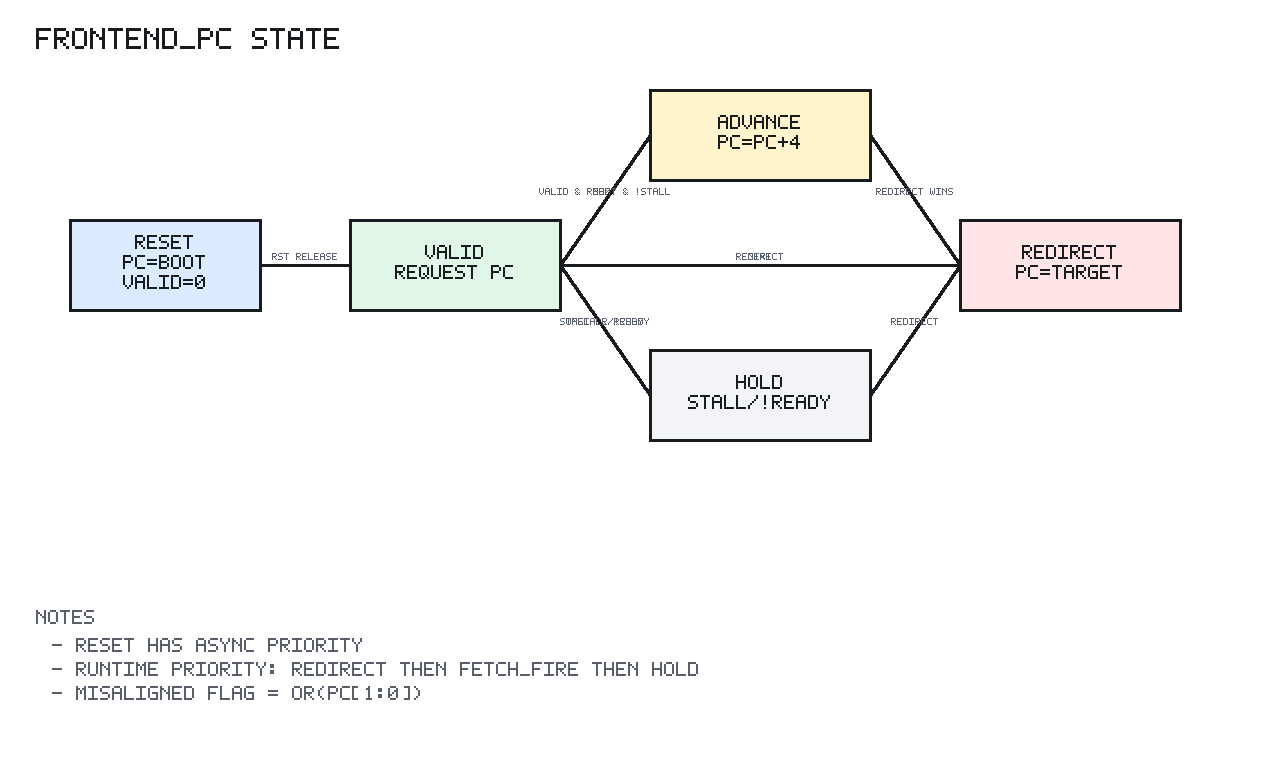
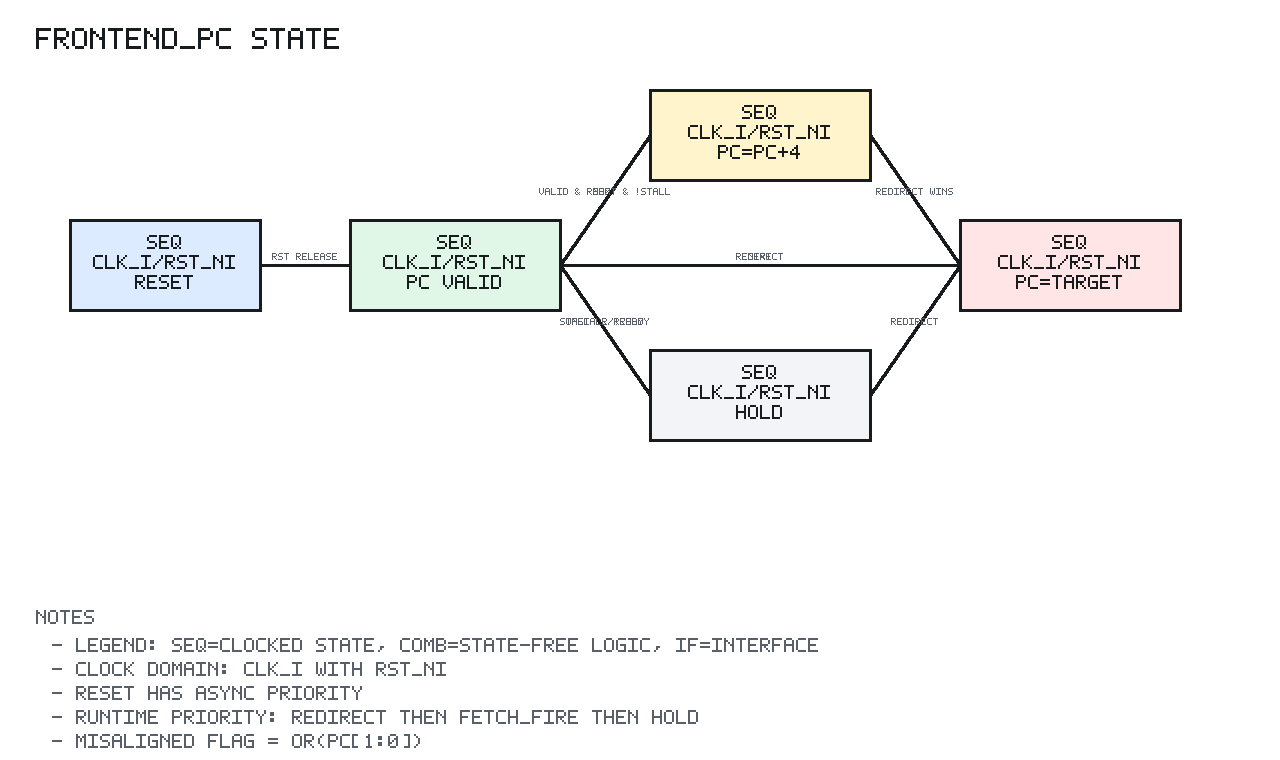
Clarify diagram timing domains

diff --git a/docs/tools/render_state_pngs.py b/docs/tools/render_state_pngs.py
@@ -641,13 +641,13 @@ def main() -> None:
             "frontend/docs/images/frontend_fetch_state.png",
             "FRONTEND_FETCH FSM",
             [
-                Node("reset", 70, 220, 190, 90, ("RESET", "IDLE"), BLUE),
-                Node("idle", 340, 220, 210, 90, ("IDLE", "NO OUTSTAND"), GREEN),
-                Node("local", 610, 70, 230, 90, ("LOCAL FAULT", "MISALIGNED"), PINK),
-                Node("wait", 610, 220, 230, 90, ("WAIT_RSP", "PC_Q VALID"), YELLOW),
-                Node("kill", 610, 380, 230, 90, ("KILL", "DROP RSP"), PINK),
-                Node("deliver", 950, 150, 220, 90, ("DELIVER", "INSTR VALID"), GREEN),
-                Node("drop", 950, 340, 220, 90, ("DROP", "RSP READY"), GRAY),
+                Node("reset", 70, 220, 190, 90, ("SEQ", "CLK_I/RST_NI", "RESET IDLE"), BLUE),
+                Node("idle", 340, 220, 210, 90, ("SEQ", "CLK_I/RST_NI", "IDLE"), GREEN),
+                Node("local", 610, 70, 230, 90, ("COMB", "LOCAL FAULT", "MISALIGNED"), PINK),
+                Node("wait", 610, 220, 230, 90, ("SEQ", "CLK_I/RST_NI", "WAIT_RSP"), YELLOW),
+                Node("kill", 610, 380, 230, 90, ("SEQ", "CLK_I/RST_NI", "KILL"), PINK),
+                Node("deliver", 950, 150, 220, 90, ("COMB", "DELIVER", "INSTR VALID"), GREEN),
+                Node("drop", 950, 340, 220, 90, ("COMB", "DROP", "RSP READY"), GRAY),
             ],
             [
                 Edge("reset", "idle", "RST RELEASE"),
@@ -660,17 +660,17 @@ def main() -> None:
                 Edge("kill", "drop", "RSP_VALID"),
                 Edge("drop", "idle", "CONSUMED"),
             ],
-            ["ONE OUTSTANDING REQUEST", "FLUSH SUPPRESSES NEW REQUESTS AND KILLS OUTSTANDING RESPONSE", "MISALIGNED PC DOES NOT ISSUE MEMORY REQUEST"],
+            ["LEGEND: SEQ=CLOCKED STATE, COMB=STATE-FREE LOGIC, IF=INTERFACE", "CLOCK DOMAIN: CLK_I WITH RST_NI", "ONE OUTSTANDING REQUEST", "FLUSH KILLS OUTSTANDING RESPONSE", "MISALIGNED PC DOES NOT ISSUE MEMORY REQUEST"],
         ),
         (
             "frontend/docs/images/frontend_pc_state.png",
             "FRONTEND_PC STATE",
             [
-                Node("reset", 70, 220, 190, 90, ("RESET", "PC=BOOT", "VALID=0"), BLUE),
-                Node("valid", 350, 220, 210, 90, ("VALID", "REQUEST PC"), GREEN),
-                Node("advance", 650, 90, 220, 90, ("ADVANCE", "PC=PC+4"), YELLOW),
-                Node("hold", 650, 350, 220, 90, ("HOLD", "STALL/!READY"), GRAY),
-                Node("redir", 960, 220, 220, 90, ("REDIRECT", "PC=TARGET"), PINK),
+                Node("reset", 70, 220, 190, 90, ("SEQ", "CLK_I/RST_NI", "RESET"), BLUE),
+                Node("valid", 350, 220, 210, 90, ("SEQ", "CLK_I/RST_NI", "PC VALID"), GREEN),
+                Node("advance", 650, 90, 220, 90, ("SEQ", "CLK_I/RST_NI", "PC=PC+4"), YELLOW),
+                Node("hold", 650, 350, 220, 90, ("SEQ", "CLK_I/RST_NI", "HOLD"), GRAY),
+                Node("redir", 960, 220, 220, 90, ("SEQ", "CLK_I/RST_NI", "PC=TARGET"), PINK),
             ],
             [
                 Edge("reset", "valid", "RST RELEASE"),
@@ -683,18 +683,18 @@ def main() -> None:
                 Edge("advance", "redir", "REDIRECT WINS"),
                 Edge("redir", "valid", "NEXT"),
             ],
-            ["RESET HAS ASYNC PRIORITY", "RUNTIME PRIORITY: REDIRECT THEN FETCH_FIRE THEN HOLD", "MISALIGNED FLAG = OR(PC[1:0])"],
+            ["LEGEND: SEQ=CLOCKED STATE, COMB=STATE-FREE LOGIC, IF=INTERFACE", "CLOCK DOMAIN: CLK_I WITH RST_NI", "RESET HAS ASYNC PRIORITY", "RUNTIME PRIORITY: REDIRECT THEN FETCH_FIRE THEN HOLD", "MISALIGNED FLAG = OR(PC[1:0])"],
         ),
         (
             "core/docs/images/core_state.png",
             "CORE TOP WRAPPER",
             [
-                Node("port", 50, 210, 190, 90, ("PUBLIC", "CORE PORTS"), BLUE),
-                Node("core", 340, 170, 260, 170, ("CORE", "NO LOCAL FSM", "PASS THROUGH"), GREEN),
-                Node("dp", 720, 150, 280, 210, ("CORE_INT_DATAPATH", "PIPE CSR LSU", "TRAP HAZARD"), YELLOW),
-                Node("obs", 1060, 80, 180, 90, ("OBSERVE", "COMMIT/TRAP"), GRAY),
-                Node("mem", 1060, 250, 180, 90, ("IF/DMEM", "REQ/RSP"), GRAY),
-                Node("irq", 1060, 420, 180, 90, ("IRQ", "TIMER/EXT"), PINK),
+                Node("port", 50, 210, 190, 90, ("IF", "CORE PORTS"), BLUE),
+                Node("core", 340, 170, 260, 170, ("COMB", "CORE WRAP", "PASS THROUGH"), GREEN),
+                Node("dp", 720, 150, 280, 210, ("SEQ+COMB", "CLK_I/RST_NI", "CORE_INT_DATAPATH"), YELLOW),
+                Node("obs", 1060, 80, 180, 90, ("IF", "COMMIT/TRAP"), GRAY),
+                Node("mem", 1060, 250, 180, 90, ("IF", "IF/DMEM", "REQ/RSP"), GRAY),
+                Node("irq", 1060, 420, 180, 90, ("IF", "IRQ", "TIMER/EXT"), PINK),
             ],
             [
                 Edge("port", "core", "CLK RST BOOT"),
@@ -703,18 +703,18 @@ def main() -> None:
                 Edge("dp", "mem", "IF DMEM"),
                 Edge("irq", "dp", "PENDING"),
             ],
-            ["CORE OWNS NO SEQUENTIAL STATE", "DATAPATH STATE DIAGRAM DEFINES PIPELINE/TRAP BEHAVIOR"],
+            ["LEGEND: SEQ=CLOCKED STATE, COMB=STATE-FREE LOGIC, IF=INTERFACE", "CORE WRAPPER OWNS NO SEQUENTIAL STATE", "DATAPATH SEQ DOMAIN: CLK_I WITH RST_NI"],
         ),
         (
             "core/docs/images/core_pipe_state.png",
             "CORE_PIPE STATE",
             [
-                Node("reset", 70, 120, 190, 90, ("RESET", "BOOT PC"), BLUE),
-                Node("fetch", 340, 110, 210, 110, ("FETCH", "PC REQUEST"), GREEN),
-                Node("id", 650, 110, 210, 110, ("IF/ID", "PC INSTR FLT"), YELLOW),
-                Node("ex", 950, 110, 210, 110, ("EX/WB", "PC INSTR FLT"), YELLOW),
-                Node("flush", 500, 330, 260, 110, ("REDIRECT", "FLUSH SLOTS"), PINK),
-                Node("bubble", 860, 330, 240, 110, ("BUBBLE", "CLEAR EX/WB"), PINK),
+                Node("reset", 70, 120, 190, 90, ("SEQ", "CLK_I/RST_NI", "RESET"), BLUE),
+                Node("fetch", 340, 110, 210, 110, ("SEQ", "CLK_I/RST_NI", "FETCH PC"), GREEN),
+                Node("id", 650, 110, 210, 110, ("SEQ", "CLK_I/RST_NI", "IF/ID"), YELLOW),
+                Node("ex", 950, 110, 210, 110, ("SEQ", "CLK_I/RST_NI", "EX/WB"), YELLOW),
+                Node("flush", 500, 330, 260, 110, ("COMB", "REDIRECT", "FLUSH CTRL"), PINK),
+                Node("bubble", 860, 330, 240, 110, ("COMB", "BUBBLE", "CTRL"), PINK),
             ],
             [
                 Edge("reset", "fetch", "RST RELEASE"),
@@ -724,7 +724,7 @@ def main() -> None:
                 Edge("flush", "id", "INVALID"),
                 Edge("bubble", "ex", "INVALID"),
             ],
-            ["REDIRECT HAS HIGHEST PRIORITY", "DECODE STALL HOLDS IF/ID", "FETCH STALL BLOCKS REQUEST/READY"],
+            ["LEGEND: SEQ=CLOCKED STATE, COMB=STATE-FREE LOGIC, IF=INTERFACE", "CLOCK DOMAIN: CLK_I WITH RST_NI", "REDIRECT HAS HIGHEST PRIORITY", "DECODE STALL HOLDS IF/ID", "FETCH STALL BLOCKS REQUEST/READY"],
         ),
         (
             "core/docs/images/core_csr_state.png",

diff --git a/frontend/docs/frontend_pc_design_spec.md b/frontend/docs/frontend_pc_design_spec.md
@@ -8,28 +8,29 @@ instruction frontend.
 ## 2. Block Diagram
 
 ```text
- boot_pc_i ------------------------------+
-                                         |
- redirect_valid_i/redirect_pc_i ----+    |
-                                    |    v
- fetch_ready_i ----+           +----+---------+
-                   |           | priority mux |
- stall_i ----------+---------->| reset        |
-                               | redirect     |
-                               | fetch_fire   |
-                               | hold         |
-                               +------+------+
-                                      |
-                                      v
-                               +-------------+
-                               | pc_q        |
-                               | valid_q     |
-                               +------+------+ 
-                                      |
-                    +-----------------+-----------------+
-                    |                 |                 |
-                    v                 v                 v
-                pc_o             pc_valid_o       pc_misaligned_o
+Legend: IF=interface, COMB=combinational logic, SEQ=clocked state
+Clock/reset domain for all SEQ blocks: clk=clk_i, rst=rst_ni
+
+ IF boot_pc_i -----------------------------+
+                                           |
+ IF redirect_valid_i/redirect_pc_i ----+    |
+                                      |    v
+ IF fetch_ready_i ----+          +----+----------------+
+                      |          | COMB priority mux   |
+ IF stall_i ----------+--------->| reset/redirect/     |
+                                 | fetch_fire/hold     |
+                                 +----------+----------+
+                                            |
+                                            v
+                                 +---------------------+
+                                 | SEQ clk_i/rst_ni    |
+                                 | pc_q, valid_q       |
+                                 +----------+----------+
+                                            |
+                       +--------------------+--------------------+
+                       |                    |                    |
+                       v                    v                    v
+                  IF pc_o              IF pc_valid_o      IF pc_misaligned_o
 ```
 
 PNG state diagram:

diff --git a/frontend/docs/frontend_fetch_design_spec.md b/frontend/docs/frontend_fetch_design_spec.md
@@ -9,26 +9,29 @@ interface and returns instruction responses to the later ibuf/core side.
 ## 2. Block Diagram
 
 ```text
- pc_valid/pc/misaligned
-          |
-          v
- +------------------+
- | accept / classify|---- misaligned ----+
- +--------+---------+                    |
-          | aligned                      v
-          v                       +-------------+
- +------------------+             | local fault |
- | imem req driver  |             +------+------+ 
- +--------+---------+                    |
-          |                              |
-          v                              v
- +------------------+             +-------------+
- | outstanding PC   |------------>| response mux|---- instr_valid/pc/instr/fault
- | state + kill bit |<----flush---|             |
- +--------+---------+             +-------------+
-          |
-          v
- imem response consume/drop
+Legend: IF=interface, COMB=combinational logic, SEQ=clocked state
+Clock/reset domain for all SEQ blocks: clk=clk_i, rst=rst_ni
+
+ IF pc_valid/pc/misaligned
+           |
+           v
+ +-----------------------+
+ | COMB accept/classify  |---- misaligned ----+
+ +----------+------------+                    |
+           | aligned                          v
+           v                           +------------------+
+ +-----------------------+             | COMB local fault |
+ | COMB imem req driver  |             +---------+--------+
+ +----------+------------+                       |
+           |                                    |
+           v                                    v
+ +-----------------------+             +-------------------+
+ | SEQ clk_i/rst_ni      |------------>| COMB response mux |---- IF instr_valid/pc/instr/fault
+ | state_q, pc_q, kill_q |<----flush---|                   |
+ +----------+------------+             +-------------------+
+           |
+           v
+ IF imem response consume/drop
 ```
 
 PNG state diagram:

diff --git a/frontend/docs/frontend_design_spec.md b/frontend/docs/frontend_design_spec.md
@@ -9,23 +9,28 @@ arbitration, and instruction buffer are staged after these leaves are verified.
 ## 2. Planned Block Diagram
 
 ```text
-                  redirect
+Legend: IF=interface, COMB=combinational logic, SEQ=clocked state
+Current frontend clock/reset domain: clk=clk_i, rst=rst_ni
+
+                  IF redirect
                      |
                      v
-               +-------------+
- boot_pc ----->| frontend_pc |---- pc_valid/pc/misaligned
- stall/ready ->|             |
-               +------+------+ 
+               +-----------------------+
+ IF boot_pc -->| frontend_pc           |---- IF pc_valid/pc/misaligned
+ IF stall/ready| SEQ clk_i/rst_ni      |
+               +-----------+-----------+
                       |
                       v
-               +-------------+
-               | frontend_fetch |
-               +------+------+
+               +-----------------------+
+               | frontend_fetch        |
+               | SEQ+COMB clk_i/rst_ni |
+               +-----------+-----------+
                       |
                       v
-               +-------------+
-               | frontend_ibuf |
-               +-------------+
+               +-----------------------+
+               | frontend_ibuf         |
+               | planned SEQ clk_i     |
+               +-----------------------+
 ```
 
 ## 3. Current Implementation Status

diff --git a/docs/wasp1_documentation_policy.md b/docs/wasp1_documentation_policy.md
@@ -80,6 +80,31 @@ Project state diagrams are generated by:
 docs/tools/render_state_pngs.py
 ```
 
+Every design-spec block diagram must explicitly distinguish implementation
+timing class:
+
+```text
+SEQ  = sequential logic, register, RAM, FIFO pointer, FSM, pipeline slot, or
+       other state updated by a clock edge
+COMB = combinational logic, mux, decoder, compare, request encoder, or other
+       state-free logic
+IF   = interface bundle or external connection point
+```
+
+For every `SEQ` block, the diagram must show the clock and reset domain used by
+that state. Preferred labels are:
+
+```text
+SEQ clk=<clock_name> rst=<reset_name>
+COMB
+IF
+```
+
+If a diagram covers multiple clocks, each sequential block must show its own
+clock name and the diagram must include a small clock/reset legend. If a module
+is purely combinational, its design spec block diagram or nearby text must state
+that no DUT clock is used.
+
 ## 5. Sequential State Diagrams
 
 Every implemented sequential module must document its state behavior in the

diff --git a/core/docs/core_design_spec.md b/core/docs/core_design_spec.md
@@ -10,19 +10,22 @@ later frontend, cache, tile, debug, and SoC integration.
 ## 2. Block Diagram
 
 ```text
+Legend: IF=interface, COMB=combinational logic, SEQ=clocked state
+Core datapath clock/reset domain: clk=clk_i, rst=rst_ni
+
 +---------------------------------------------------------------+
 | core                                                          |
 |                                                               |
-|  clk/rst/boot_pc                                              |
+|  IF clk/rst/boot_pc                                           |
 |        |                                                      |
 |        v                                                      |
-|  +-------------------+                                        |
-|  | core_int_datapath |                                        |
-|  |                   |                                        |
-|  | pipe/decode/rf    |---- commit/ex/trap/hazard observation  |
-|  | alu/branch/lsu    |---- data-memory request/response       |
-|  | csr/trap/hazard   |---- instruction request/response       |
-|  +-------------------+                                        |
+|  +------------------------------+                             |
+|  | SEQ+COMB clk_i/rst_ni        |                             |
+|  | core_int_datapath            |                             |
+|  | pipe/decode/rf/alu/branch    |---- IF commit/ex/trap/hazard|
+|  | lsu/csr/trap/hazard          |---- IF dmem req/rsp         |
+|  |                              |---- IF instruction req/rsp  |
+|  +------------------------------+                             |
 |                                                               |
 +---------------------------------------------------------------+
 ```

diff --git a/AGENTS.md b/AGENTS.md
@@ -151,6 +151,18 @@ pure combinational modules should explicitly state that no sequential state
   exists when that distinction matters
 ```
 
+Design-spec block diagrams must explicitly label timing class and clock/reset
+domains:
+
+```text
+SEQ clk=<clock_name> rst=<reset_name>  sequential state or storage
+COMB                                  combinational logic
+IF                                    interface/external connection
+```
+
+Every sequential block in a diagram must show the clock it uses. Multi-clock
+diagrams must label each clock domain separately.
+
 For non-trivial sequential state, include a PNG diagram in `docs/images/` and
 regenerate it with `docs/tools/render_state_pngs.py` when the state behavior
 changes. Keep the text transition description alongside the image.